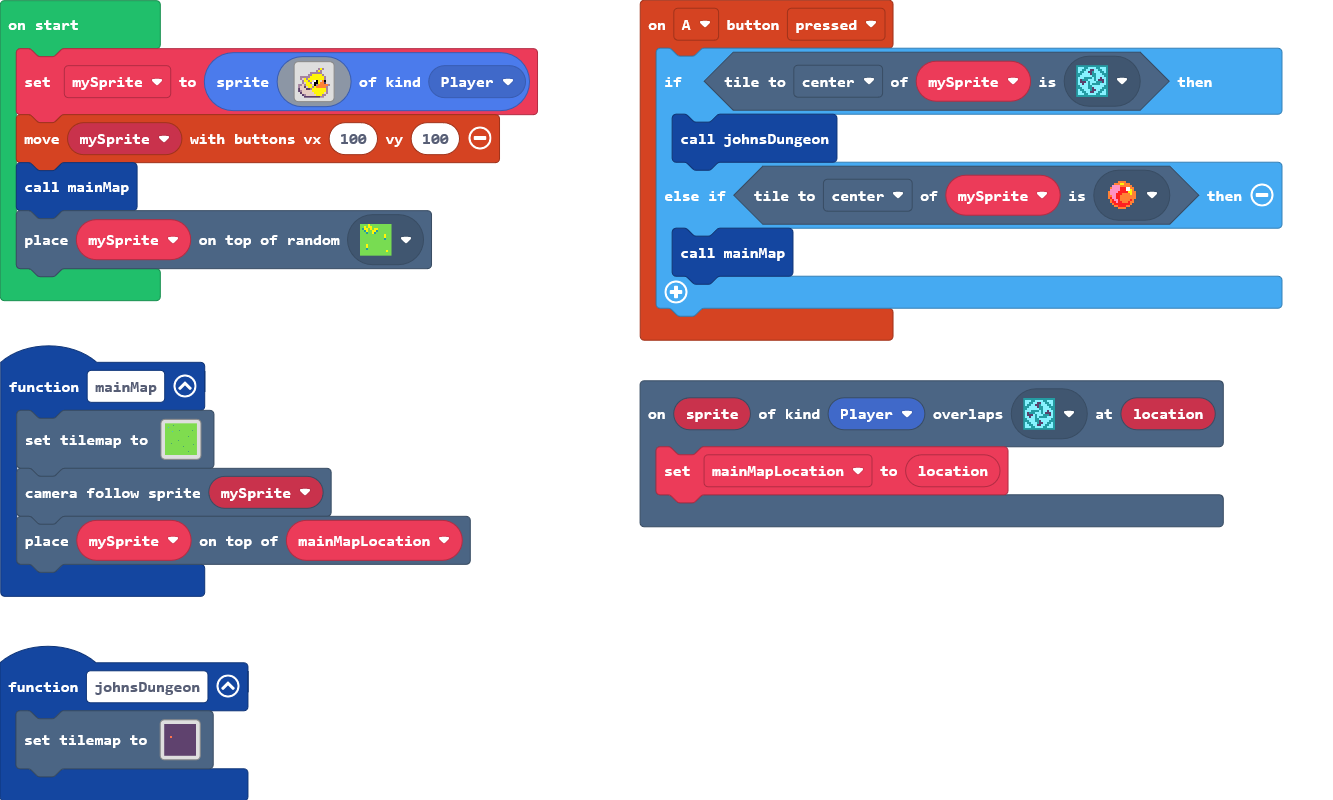
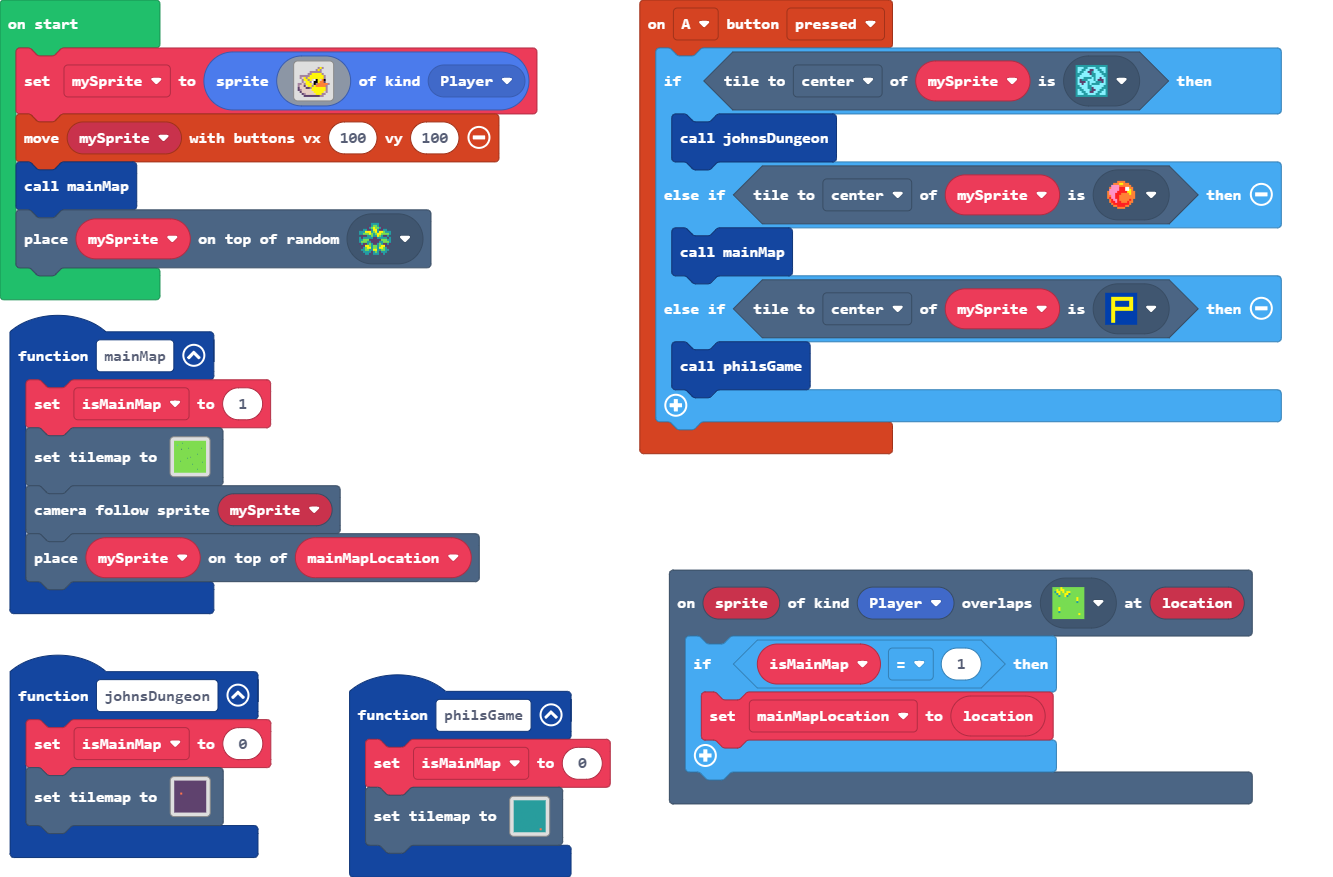
Multiple Portals

diff --git a/tilemap.g.ts b/tilemap.g.ts
@@ -2,10 +2,12 @@
 namespace myTiles {
     //% fixedInstance jres blockIdentity=images._tile
     export const transparency16 = image.ofBuffer(hex``);
+    //% fixedInstance jres blockIdentity=images._tile
+    export const tile1 = image.ofBuffer(hex``);
 
     helpers.registerTilemapFactory(function(name: string) {
         switch(helpers.stringTrim(name)) {
-            case "level": return tiles.createTilemap(hex`2000200002020202020202020202020202020202020202020202020202020202020202020202020202020202020202020202020202020202020202020202020202020202020202020202020201020202020202020202020202020202020202020202020202020202020202020202020202020202020202020202020202020202020202020202020302020202020202020202020202020202020202020202020202020202020202020202020202020202020202020202020202020202020202020202020202020202020202020202020202020202020202020202020202020202020202020202020202020202020202020202010202020202020202020202020102020202020202020202020302020202020202020202020202020202020202020202020202020202020202020202020202020202020202020202020202020202020202020202020202020202020202020202020202020202020202020202020202020202020202020202020202020202020202020202020202020202020202020202020202020202020202020202020202020202020202020202020202020202020202020202020202020202020202020202020202020202020202010202020202020202020202020202020202020202020202020202020202020202020202020202020202020202020202020202020202020202020202020202020202020202020202020202020202020202020202020202020202020202020202020202020202020202020202020202020202020202020102020202020202020202020202020202020202020202020202020202020202020202020202020202020202020202020202020202020202020202020202020202020202020202020202020202020202020202020202020202010202020202020202020202020202020202020202020202020202020202020202020202020202020202020202020202020202020202010202020202020202020202020202020202020202020202020202020202020202020202020202020202020202020202020202020202010202020202020202020202020202020202020202020202020202020202020202020202020202020202020202020202020202020202020202020202020202020202020202020202020202020202020202020202020202020202020202020202020202020202020202020202020202020202020202020202020202020202020202020202020202020202020202020202020202020202020202020202020202020202020202010202020202020202020202020202020202020202020202020202020202020202020202020202020202020202020202020202020202020202020202020202020202020202020202020202020202020202020202020202020202020202020202020202020202020202`, img`
+            case "level": return tiles.createTilemap(hex`2000200002020202020202020202020202020202020202020202020202020202020202020202020202020202020202020202020202020202020202020202020202020202020202020202020201020202020202020202020202020202020202020202020202020202020202020202020202020202020202020202020202020202020202020202020302020202020202020202020202020202020202020202020202020202020202020202020202020202020202020202020202020202020202020202020202020202020202020202020202020202020202020202020202020202020202020202020202020202020202020202010202020202020202020202020102020202020202020202020502020202020202020202020202020202020202020202020202020202020202020202020202020202020202020202020202020202020202020202020202020202020202020202020202020202020202020202020202020202020202020202020202020202020202020202020202020202020202020202020202020202020202020202020202020202020202020202020202020202020202020202020202020202020202020202020202020202020202010202020202020202020202020202020202020202020202020202020202020202020202020202020202020202020202020202020202020202020202020202020202020202020202020202020202020202020202020202020204020202020202020202020202020202020202020202020202020202020102020202020202020202020202020202020202020202020202020202020202020202020202020202020202020202020202020202020202020202020202020202020202020202020202020202020202020202020202020202010202020202020202020202020202020202020202020202020202020202020202020202020202020202020202020202020202020202010202020202020202020202020202020202020202020202020202020202020202020202020202020202020202020202020202020202010202020202020202020202020202020202020202020202020202020202020202020202020202020202020202020202020202020202020202020202020202020202020202020202020202020202020202020202020202020202020202020202020202020202020202020202020202020202020202020202020202020202020202020202020202020202020202020202020202020202020202020202020202020202020202010202020202020202020202020202020202020202020202020202020202020202020202020202020202020202020202020202020202020202020202020202020202020202020202020202020202020202020202020202020202020202020202020202020202020202`, img`
 ................................
 ................................
 ........2.......................
@@ -38,7 +40,7 @@ namespace myTiles {
 ................................
 ................................
 ................................
-`, [myTiles.transparency16,sprites.builtin.forestTiles0,sprites.castle.tileGrass1,sprites.dungeon.collectibleInsignia], TileScale.Sixteen)
+`, [myTiles.transparency16,sprites.builtin.forestTiles0,sprites.castle.tileGrass1,sprites.dungeon.collectibleInsignia,sprites.castle.shrub,myTiles.tile1], TileScale.Sixteen)
             case "dungeon": return tiles.createTilemap(hex`1000100001010101010101010101010101010101010101010101010101010101010101010101010101010101010101010101010101010101010101010101010101010101010101010101010101010101010101010101010101010101010101010101010101010101010101010101010101010101010101010101010101010101010101010101010101010101010101010101010101010101010101010101010101010101010101010101010101010101010101010101010101010101010101010101010101010101010101010101010101010101010101010101010101010101010101010101010101010101010101010101010101010101010101010101010101010101`, img`
 . . . . . . . . . . . . . . . . 
 . . . . . . . . . . . . . . . . 

diff --git a/main.ts b/main.ts
@@ -3,20 +3,48 @@ controller.A.onEvent(ControllerButtonEvent.Pressed, function () {
         johnsDungeon()
     } else if (mySprite.tileKindAt(TileDirection.Center, sprites.dungeon.collectibleRedCrystal)) {
         mainMap()
+    } else if (mySprite.tileKindAt(TileDirection.Center, myTiles.tile1)) {
+        philsGame()
     }
 })
 function mainMap () {
+    isMainMap = 1
     tiles.setTilemap(tilemap`level`)
     scene.cameraFollowSprite(mySprite)
     tiles.placeOnTile(mySprite, mainMapLocation)
 }
-scene.onOverlapTile(SpriteKind.Player, sprites.dungeon.collectibleInsignia, function (sprite, location) {
-    mainMapLocation = location
+scene.onOverlapTile(SpriteKind.Player, sprites.castle.tileGrass1, function (sprite, location) {
+    if (isMainMap == 1) {
+        mainMapLocation = location
+    }
 })
+function philsGame () {
+    isMainMap = 0
+    tiles.setTilemap(tiles.createTilemap(hex`1000100001010101010101010101010101010101010101010101010101010101010101010101010101010101010101010101010101010101010101010101010101010101010101010101010101010101010101010101010101010101010101010101010101010101010101010101010101010101010101010101010101010101010101010101010101010101010101010101010101010101010101010101010101010101010101010101010101010101010101010101010101010101010101010101010101010101010101010101010101010101010101010101010101010101010101010101010101010101010101010102010101010101010101010101010101010101`, img`
+        . . . . . . . . . . . . . . . . 
+        . . . . . . . . . . . . . . . . 
+        . . . . . . . . . . . . . . . . 
+        . . . . . . . . . . . . . . . . 
+        . . . . . . . . . . . . . . . . 
+        . . . . . . . . . . . . . . . . 
+        . . . . . . . . . . . . . . . . 
+        . . . . . . . . . . . . . . . . 
+        . . . . . . . . . . . . . . . . 
+        . . . . . . . . . . . . . . . . 
+        . . . . . . . . . . . . . . . . 
+        . . . . . . . . . . . . . . . . 
+        . . . . . . . . . . . . . . . . 
+        . . . . . . . . . . . . . . . . 
+        . . . . . . . . . . . . . . . . 
+        . . . . . . . . . . . . . . . . 
+        `, [myTiles.transparency16,sprites.castle.tileDarkGrass3,sprites.dungeon.collectibleRedCrystal], TileScale.Sixteen))
+}
 function johnsDungeon () {
+    isMainMap = 0
     tiles.setTilemap(tilemap`johnsDungeon`)
 }
 let mainMapLocation: tiles.Location = null
+let isMainMap = 0
 let mySprite: Sprite = null
 mySprite = sprites.create(img`
     . . . . . . . . . . . . . . . . 
@@ -38,4 +66,4 @@ mySprite = sprites.create(img`
     `, SpriteKind.Player)
 controller.moveSprite(mySprite, 100, 100)
 mainMap()
-tiles.placeOnRandomTile(mySprite, sprites.castle.tileGrass1)
+tiles.placeOnRandomTile(mySprite, sprites.castle.shrub)
